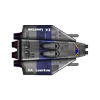
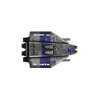
kabrik and fixed SOEW and jammer

Changed region(s): [[0.09, 0.24, 0.9, 0.78]]

diff --git a/source/public/client/UI/shipSelect.js b/source/public/client/UI/shipSelect.js
@@ -45,15 +45,33 @@ window.shipSelectList = {
 			
 			$('<div oncontextmenu="shipSelectList.onShipContextMenu(this);return false;" class="shiplistentry" data-id="'+listship.id+'"><span class="name '+fac+'">'+listship.name+'</span></div>').appendTo(e);
 			
-            if (gamedata.gamephase === 1 && selectedShip != listship && shipManager.isElint(selectedShip) && (ew.getEWByType("BDEW", selectedShip) == 0)){
+            if (gamedata.gamephase === 1 && selectedShip != listship && shipManager.isElint(selectedShip)){
                 if (gamedata.isEnemy(selectedShip, listship)){
                     if (ew.checkInELINTDistance(selectedShip, listship, 50)){
-                        $('<div oncontextmenu="shipSelectList.onShipContextMenu(this);return false;" class="shiplistentry action" data-action="DIST" data-id="'+listship.id+'"><span class="'+fac+'">Assign disruption EW</span></div>').appendTo(e);
+                        if (ew.getEWByType("BDEW", selectedShip) == 0){
+                            $('<div oncontextmenu="shipSelectList.onShipContextMenu(this);return false;" class="shiplistentry action" data-action="DIST" data-id="'+listship.id+'"><span class="'+fac+'">Assign disruption EW</span></div>').appendTo(e);
+
+                            var jammer = shipManager.systems.getSystemByName(listship, "jammer");
+
+                            if(jammer != null
+                                && shipManager.systems.getOutput(listship, jammer) > 0
+                                && !shipManager.systems.isDestroyed(listship, jammer))
+                            {
+                                // Ships with active jammers are immune to SOEW
+                                $('<div oncontextmenu="shipSelectList.onShipContextMenu(this);return false;" class="shiplistentry remark"><span>EW on jammer-protected ships<br>will not be shared with SOEW.</span></div>').appendTo(e);
+                            }
+                        }else{
+                            $('<div oncontextmenu="shipSelectList.onShipContextMenu(this);return false;" class="shiplistentry remark"><span >You cannot use other ELINT<br>functions with blanket protection.</span></div>').appendTo(e);
+                        }
                     }
                 }else{
                     if (ew.checkInELINTDistance(selectedShip, listship, 30)){
-                        $('<div oncontextmenu="shipSelectList.onShipContextMenu(this);return false;" class="shiplistentry action" data-action="SOEW" data-id="'+listship.id+'"><span class="'+fac+'">Assign support OEW</span></div>').appendTo(e);
-                        $('<div oncontextmenu="shipSelectList.onShipContextMenu(this);return false;" class="shiplistentry action" data-action="SDEW" data-id="'+listship.id+'"><span class="'+fac+'">Assign support DEW</span></div>').appendTo(e);
+                        if (ew.getEWByType("BDEW", selectedShip) == 0){
+                            $('<div oncontextmenu="shipSelectList.onShipContextMenu(this);return false;" class="shiplistentry action" data-action="SOEW" data-id="'+listship.id+'"><span class="'+fac+'">Assign support OEW</span></div>').appendTo(e);
+                            $('<div oncontextmenu="shipSelectList.onShipContextMenu(this);return false;" class="shiplistentry action" data-action="SDEW" data-id="'+listship.id+'"><span class="'+fac+'">Assign support DEW</span></div>').appendTo(e);
+                        }else{
+                            $('<div oncontextmenu="shipSelectList.onShipContextMenu(this);return false;" class="shiplistentry remark"><span >You cannot use other ELINT<br>functions with blanket protection.</span></div>').appendTo(e);
+                        }
                     }
                 }
             }

diff --git a/source/public/client/ew.js b/source/public/client/ew.js
@@ -115,12 +115,12 @@ window.ew = {
             if (target && entry.targetid != target.id)
                 continue;
             
-			if (entry.type == type){
-				return entry.amount;
+            if (entry.type == type){
+		return entry.amount;
             }
-		}
-		
-		return 0;
+        }
+	
+	return 0;
     },
 	
 	convertUnusedToDEW: function(ship){
@@ -407,7 +407,7 @@ window.ew = {
         var e = $(this).parent();
         var ship = e.data("ship");
         var entry = e.data("EW");
-		var left = ew.getDefensiveEW(ship);
+	var left = ew.getDefensiveEW(ship);
 		if (left < 1)
             return;
         
@@ -422,8 +422,13 @@ window.ew = {
         if (entry == "CCEW"){
             ship.EW.push({shipid:ship.id, type:"CCEW", amount:1, targetid:-1, turn:gamedata.turn});
         }else if (entry == "BDEW"){
-            ship.EW.push({shipid:ship.id, type:"BDEW", amount:1, targetid:-1, turn:gamedata.turn});
-            ew.adEWindicators(ship);
+            if(ew.getEWByType("DIST", ship) > 0 || ew.getEWByType("SOEW", ship) > 0 || ew.getEWByType("SDEW", ship) > 0){
+                window.confirm.error("You cannot use blanket protection together with other ELINT functions.", function(){});
+                return;
+            }else{
+                ship.EW.push({shipid:ship.id, type:"BDEW", amount:1, targetid:-1, turn:gamedata.turn});
+                ew.adEWindicators(ship);
+            }
         }else if (entry.type == "DIST"){
             if (left < 3)
                 return;
@@ -485,7 +490,19 @@ window.ew = {
     },
     
     getSupportedOEW: function(ship, target){
+        var jammer = shipManager.systems.getSystemByName(target, "jammer");
+
+        if(jammer != null &&
+            shipManager.systems.getOutput(target, jammer) > 0
+            && !shipManager.systems.isDestroyed(target, jammer)
+            && !shipManager.power.isOffline(target, jammer))
+        {
+            // Ships with active jammers are immune to SOEW
+            return 0;
+        }
+
         var amount = 0;
+        
         for (var i in gamedata.ships){
             var elint = gamedata.ships[i];
             if (elint == ship || !shipManager.isElint(elint))
@@ -498,6 +515,8 @@ window.ew = {
                 continue;
             
             var foew = ew.getEWByType("OEW", elint, target) * 0.5;
+            
+
             if (foew > amount)
                amount = foew;
         }

diff --git a/source/public/client/UI/shipclickable.js b/source/public/client/UI/shipclickable.js
@@ -39,7 +39,15 @@ window.shipClickable = {
 	
 	doMouseOver: function(){
         var selectedShip = gamedata.getSelectedShip();
-		var ship = shipClickable.ship;
+	var ship = shipClickable.ship;
+        
+        if(ship == null){
+            // something was moused over that isn't a ship
+            // or not connected to one. (A warning for instance, info text)
+            // ignore this mouse over.
+            return;
+        }
+        
 		gamedata.mouseOverShipId = ship.id;
 		shipManager.drawShip(ship);
 		

diff --git a/source/public/styles/tactical.css b/source/public/styles/tactical.css
@@ -774,12 +774,21 @@ body.phase1 #botPanel .ewentry .button2{
 	cursor:pointer;
 }
 
+.shipSelectList .shiplistentry.remark{
+	margin:3px 45px;
+        color:#496791;
+}
+
 .shipSelectList .shiplistentry span{
 	 font-size:14px;
 	 padding-right:5px;
 }
 .shipSelectList .shiplistentry.action span{
 	 font-size:12px;
+}
+
+.shipSelectList .shiplistentry.remark span{
+	 font-size:11px;
 }
 
 .shipSelectList .shiplistentry .name{

diff --git a/source/public/client/ships.js b/source/public/client/ships.js
@@ -561,6 +561,10 @@ window.shipManager = {
 
         shipSelectList.remove();
 
+        if (ship == null){
+            return;
+        }
+
         if (gamedata.thisplayer == -1)
             return;
 
@@ -596,6 +600,9 @@ window.shipManager = {
 
     isDestroyed: function(ship){
 
+    if (ship == null){
+        return;
+    }
 
         if (ship.flight){
 

diff --git a/source/server/model/ships/brakiri/kabrik.php b/source/server/model/ships/brakiri/kabrik.php
@@ -1,0 +1,47 @@
+<?php
+class Kabrik extends MediumShip{
+    
+    function __construct($id, $userid, $name,  $slot){
+        parent::__construct($id, $userid, $name,  $slot);
+        
+	$this->pointCost = 350;
+	$this->faction = "Brakiri";
+        $this->phpclass = "Kabrik";
+        $this->imagePath = "img/ships/kabrik.png";
+        $this->shipClass = "Kabrik Police Ship";
+        $this->agile = true;
+        $this->gravitic = true;
+        $this->canvasSize = 100;
+        
+        $this->forwardDefense = 12;
+        $this->sideDefense = 13;
+        
+        $this->turncost = 0.5;
+        $this->turndelaycost = 0.66;
+        $this->accelcost = 3;
+        $this->rollcost = 2;
+        $this->pivotcost = 1;
+	$this->iniativebonus = 60;
+
+        $this->addPrimarySystem(new Reactor(4, 10, 0, 0));
+        $this->addPrimarySystem(new CnC(5, 8, 0, 0));
+        $this->addPrimarySystem(new Scanner(4, 8, 4, 6));
+        $this->addPrimarySystem(new Engine(4, 7, 0, 7, 2));
+	$this->addPrimarySystem(new Hangar(3, 7));
+	$this->addPrimarySystem(new Thruster(4, 8, 0, 4, 3));
+	$this->addPrimarySystem(new Thruster(4, 8, 0, 4, 4));
+		
+        $this->addFrontSystem(new GraviticBolt(3, 5, 2, 240, 60));
+        $this->addFrontSystem(new GraviticBolt(3, 5, 2, 300, 120));
+        $this->addFrontSystem(new GraviticCannon(3, 6, 5, 270, 90));
+        $this->addFrontSystem(new Thruster(4, 6, 0, 2, 1));
+        $this->addFrontSystem(new Thruster(4, 6, 0, 2, 1));
+        
+        $this->addAftSystem(new GraviticBolt(3, 5, 2, 90, 270));
+        $this->addAftSystem(new GraviticBolt(3, 5, 2, 90, 270));
+        $this->addAftSystem(new Thruster(4, 15, 0, 7, 2));
+		
+        $this->addPrimarySystem(new Structure( 4, 48));
+    }
+}
+?>

diff --git a/source/autoload.php b/source/autoload.php
@@ -150,6 +150,7 @@ spl_autoload_register(
                 'jammer' => '/server/model/systems/baseSystems.php',
                 'jumpengine' => '/server/model/systems/baseSystems.php',
 //                'kaliva' => '/server/model/ships/brakiri/kaliva.php',
+                'kabrik' => '/server/model/ships/brakiri/kabrik.php',
                 'katoc' => '/server/model/ships/narn/Katoc.php',
                 'katanpulsedestroyer' => '/server/model/ships/narn/KatanPulseDestroyer.php',
                 'kraasus' => '/server/model/ships/balosian/kraasus.php',

diff --git a/source/server/handlers/EW.php b/source/server/handlers/EW.php
@@ -79,6 +79,13 @@
         
         public static function getSupportedOEW($gamedata, $ship, $target)
         {
+            $jammer = $target->getSystemByName("jammer");
+
+            if($jammer != null && $jammer->getOutput()> 0 ){
+                // Jammer protected ships cannot be targetten for SOEW
+                            return 0;
+            }
+            
             if (Mathlib::getDistanceHex( $target->getCoPos(), $ship->getCoPos() ) > 30)
                 return 0;
             

diff --git a/source/server/handlers/firing.php b/source/server/handlers/firing.php
@@ -385,8 +385,6 @@ class Firing{
     
     private static function fire($ship, $fire, $gamedata){
         
-        Debug::log("Into the fire");
-
 		if ($fire->turn != $gamedata->turn)
 			return;
 			
@@ -397,8 +395,6 @@ class Firing{
 			return;
 		
 		$weapon = $ship->getSystemById($fire->weaponid);
-        Debug::log("Weapon name = ".$weapon->name);
-        Debug::log("Weapon id = ".$fire->weaponid);
 		
 		$weapon->fire($gamedata, $fire);
 		
